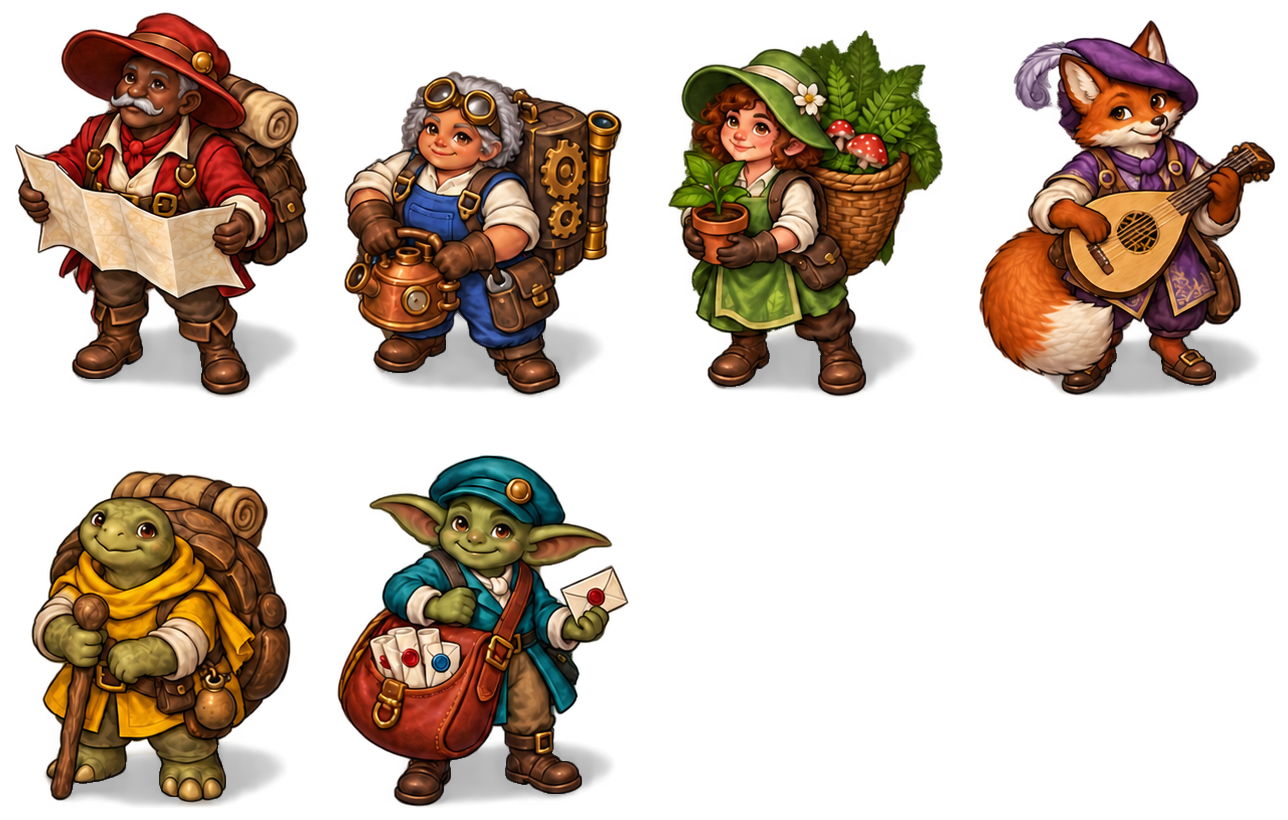
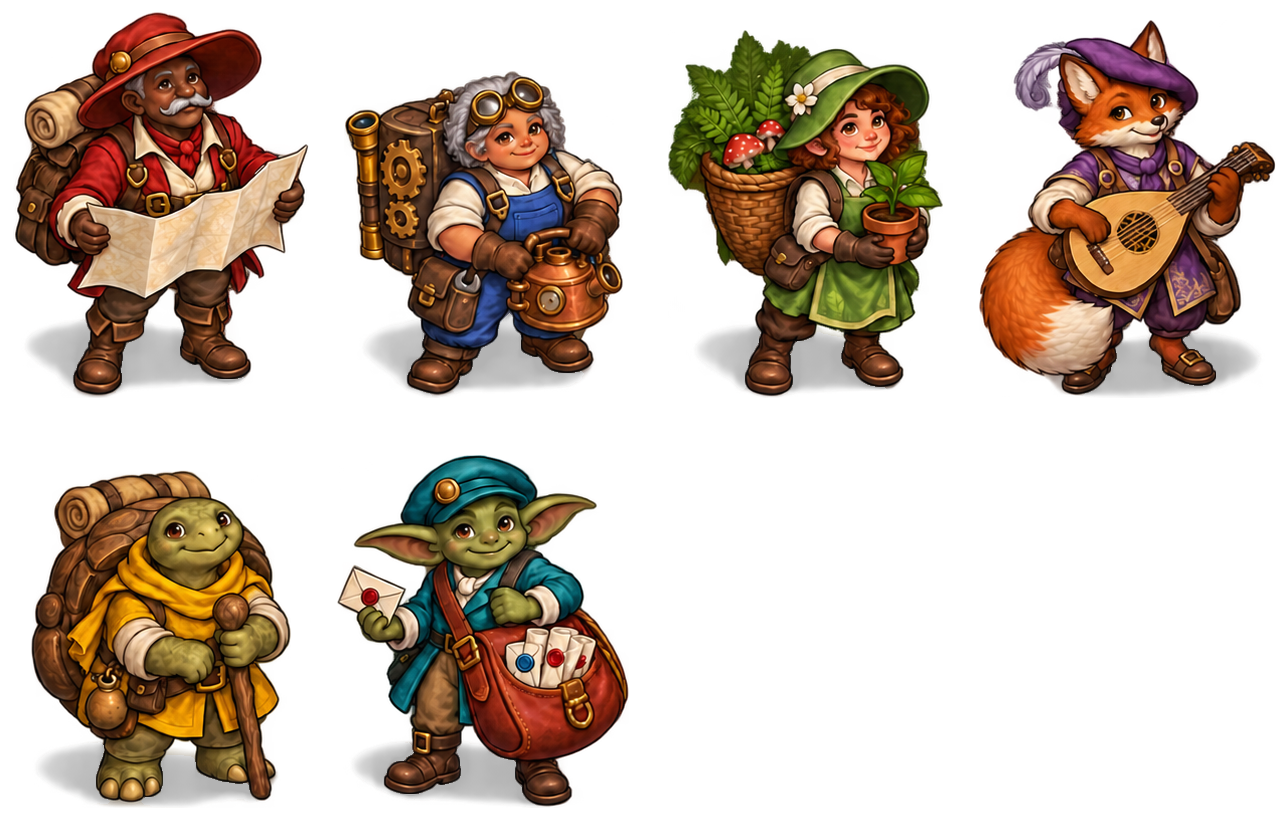
Flip five player figures so every figure faces right (Q313)
Andrei asked for the player figures to face right, so that facing tells
them from the guards, which all face left. The cartographer, mechanic,
botanist, tortoise and goblin were drawn facing left; the fox already
faced right and is unchanged.

The five are flipped whole, shadow included, wherever they are shown,
as he chose: pack_sheets.py's new MIRROR table flips them as the
figurine sheet is packed, pack_animation.py flips the same figures'
idle animation frames about the spot they stand on, the portrait boxes
are rederived with their hand-set face positions flipped, and the tab
icon is cut again from the flipped sheet. The originals are unchanged.

Claude-Session: https://claude.ai/code/session_011pRyBvJLN57DphmkpqtWPo

diff --git a/Art/tools/pack_sheets.py b/Art/tools/pack_sheets.py
@@ -27,7 +27,8 @@ It reads each original named in SHEETS below, and for every picture on it:
    (armour, stone) and no picture's own soft edge is touched. One picture
    defeats this: the amber slime's shadow is tinted by its own glow and ringed
    by it, so it keeps the shadow it was drawn with;
-3. stands it in a cell: its solid part (alpha at least SOLID_ALPHA, the same
+3. flips it left to right if MIRROR names it, shadow and all (Q313);
+4. stands it in a cell: its solid part (alpha at least SOLID_ALPHA, the same
    threshold the game measures sizes with) centred across the cell, its lowest
    visible pixel PAD above the cell's floor. The atlas `anchor` is the middle
    of that solid part's foot, which is where the game stands it.
@@ -70,6 +71,15 @@ SHEETS = {
         ("Mountains_GoldGuardedByFighting_2.png", 12),
     ],
     "Mountains_GoldGuardedByMagic": [("Mountains_GoldGuardedByMagic.png", 12)],
+}
+
+# Target sheet name -> the pictures on it, numbered as in its atlas from 1, that
+# are flipped left to right. [Q313] Every player figure faces right, so facing
+# tells them from the guards, which all face left: the five drawn facing left
+# are flipped, the fox already faces right. pack_animation.py flips the same
+# figures' animations.
+MIRROR = {
+    "player_avatars": {1, 2, 3, 5, 6},
 }
 
 COLUMNS = 4
@@ -370,6 +380,11 @@ def solid_box(width, px, box):
 
 # --- packing --------------------------------------------------------------------
 
+def flipped(row):
+    """A row of RGBA pixels, right to left."""
+    return b"".join(bytes(row[i:i + 4]) for i in range(len(row) - 4, -1, -4))
+
+
 def pack(name, sources):
     pieces = []
     for original, expected in sources:
@@ -397,10 +412,17 @@ def pack(name, sources):
     sheet_w, sheet_h = COLUMNS * cell_w, rows * cell_h
     out = bytearray(sheet_w * sheet_h * 4)
 
+    mirrored = MIRROR.get(name, set())
+    if not mirrored <= set(range(1, len(pieces) + 1)):
+        raise SystemExit("%s: MIRROR names pictures %r, but it has %d" % (name, sorted(mirrored), len(pieces)))
     sprites = []
     for index, (original, width, px, box, solid) in enumerate(pieces):
         x0, y0, x1, y1 = box
         sx0, _, sx1, sy1 = solid
+        mirror = index + 1 in mirrored
+        if mirror:
+            # The solid part is flipped with the picture.
+            sx0, sx1 = x0 + x1 - sx1, x0 + x1 - sx0
         cell_x, cell_y = (index % COLUMNS) * cell_w, (index // COLUMNS) * cell_h
         # Where the picture's top-left lands inside its cell.
         left = cell_w // 2 - (sx0 + sx1) // 2 + x0
@@ -408,8 +430,9 @@ def pack(name, sources):
         for y in range(y0, y1):
             src = (y * width + x0) * 4
             dst = ((cell_y + top + y - y0) * sheet_w + cell_x + left) * 4
-            out[dst:dst + (x1 - x0) * 4] = px[src:src + (x1 - x0) * 4]
-        sprites.append({
+            row = px[src:src + (x1 - x0) * 4]
+            out[dst:dst + (x1 - x0) * 4] = flipped(row) if mirror else row
+        sprite = {
             "id": "%s_%02d" % (name, index + 1),
             "x": cell_x,
             "y": cell_y,
@@ -418,7 +441,10 @@ def pack(name, sources):
             "anchor": {"x": cell_w // 2, "y": top + (sy1 - y0)},
             "original": original,
             "source_box_in_original": [x0, y0, x1 - x0, y1 - y0],
-        })
+        }
+        if mirror:
+            sprite["mirrored"] = True
+        sprites.append(sprite)
 
     write_png(os.path.join(ART, "%s_sheet.png" % name), sheet_w, sheet_h, out)
     atlas = {
@@ -426,7 +452,8 @@ def pack(name, sources):
         "cell_width": cell_w,
         "cell_height": cell_h,
         "notes": ("Packed by Art/tools/pack_sheets.py from Art/originals/, the artist's sheets as "
-                  "supplied, with each picture's grey drop shadow made black and see-through. "
+                  "supplied, with each picture's grey drop shadow made black and see-through"
+                  + (", and those marked mirrored flipped left to right" if mirrored else "") + ". "
                   "Do not edit by hand: replace the original and run the tool again."),
         "sprites": sprites,
     }

diff --git a/Art/tools/pack_animation.py b/Art/tools/pack_animation.py
@@ -16,7 +16,9 @@ Each frame keeps its place in its cell exactly as drawn, so the figure does not
 shift from frame to frame, and its atlas anchor is PIVOT. Its shadow is made
 dark and see-through as pack_sheets.py makes every other sheet's (Q59; Q305),
 each figure's shadow on its own since each strip draws its shadow a
-different grey. A frame's sprite is named for the figure it animates:
+different grey. The figures pack_sheets.py's MIRROR flips on the figurine
+sheet are flipped here too, every frame about PIVOT, shadow and all (Q313).
+A frame's sprite is named for the figure it animates:
 `player_avatars_01_frame1` is the first frame of the figurine sheet's
 `player_avatars_01`. The strips stay in Art/originals/ unchanged, and the same
 inputs always give byte-identical output.
@@ -29,7 +31,7 @@ import sys
 HERE = os.path.dirname(os.path.abspath(__file__))
 sys.path.insert(0, HERE)
 
-from pack_sheets import ART, ORIGINALS, VISIBLE, darken_shadows, read_png, write_png  # noqa: E402
+from pack_sheets import ART, MIRROR, ORIGINALS, VISIBLE, darken_shadows, flipped, read_png, write_png  # noqa: E402
 
 NAME = "player_avatars_animated"
 SOURCE = os.path.join(ORIGINALS, NAME)
@@ -49,6 +51,8 @@ FRAME_WIDTH = 256
 FRAME_HEIGHT = 320
 # Where the figure stands in every frame, as the animations were drawn.
 PIVOT = (128, 288)
+# [Q313] The figurines flipped on their own sheet, whose animations are flipped too.
+MIRRORED = {"player_avatars_%02d" % n for n in MIRROR.get("player_avatars", ())}
 
 
 def visible_box(width, px, x0, x1, height):
@@ -75,10 +79,19 @@ def main():
         boxes = [visible_box(width, px, k * FRAME_WIDTH, (k + 1) * FRAME_WIDTH, height) for k in range(FRAMES)]
         shaded = darken_shadows(width, px, boxes)
         print("  %s: %d frames, %d shadow pixels darkened" % (strip, FRAMES, shaded))
+        mirror = figurine in MIRRORED
+        if mirror:
+            # Each frame is twice PIVOT wide, so flipping it keeps the figure on PIVOT.
+            if FRAME_WIDTH != 2 * PIVOT[0]:
+                raise SystemExit("a frame %d wide cannot be flipped about x = %d" % (FRAME_WIDTH, PIVOT[0]))
+            for y in range(height):
+                for k in range(FRAMES):
+                    start = (y * width + k * FRAME_WIDTH) * 4
+                    px[start:start + FRAME_WIDTH * 4] = flipped(px[start:start + FRAME_WIDTH * 4])
         stride = width * 4
         out[row * FRAME_HEIGHT * stride:(row + 1) * FRAME_HEIGHT * stride] = px
         for k in range(FRAMES):
-            sprites.append({
+            sprite = {
                 "id": "%s_frame%d" % (figurine, k + 1),
                 "x": k * FRAME_WIDTH,
                 "y": row * FRAME_HEIGHT,
@@ -86,7 +99,10 @@ def main():
                 "height": FRAME_HEIGHT,
                 "anchor": {"x": PIVOT[0], "y": PIVOT[1]},
                 "original": "%s/%s" % (NAME, strip),
-            })
+            }
+            if mirror:
+                sprite["mirrored"] = True
+            sprites.append(sprite)
 
     write_png(os.path.join(ART, "%s_sheet.png" % NAME), sheet_w, sheet_h, out)
     atlas = {
@@ -95,7 +111,8 @@ def main():
         "cell_height": FRAME_HEIGHT,
         "notes": ("Packed by Art/tools/pack_animation.py from Art/originals/%s/, one row per figure, "
                   "each frame where it was drawn, with each figure's grey shadow made black and "
-                  "see-through. Do not edit by hand: replace a strip and run the tool again." % NAME),
+                  "see-through%s. Do not edit by hand: replace a strip and run the tool again."
+                  % (NAME, ", and the frames marked mirrored flipped left to right" if MIRRORED else "")),
         "sprites": sprites,
     }
     with open(os.path.join(ART, "%s_atlas.json" % NAME), "w") as fh:

diff --git a/Art/tools/make_portrait_crops.py b/Art/tools/make_portrait_crops.py
@@ -43,12 +43,13 @@ SIDE_FRACTION = 0.5
 HEADROOM = 0.06
 # Where the face is, cell-relative, for figures whose measured head centre
 # misses it: a backpack or basket beside the head widens what is measured, and
-# the face sits left of centre. Set by eye, between the eyes, for the figures
-# Andrei named (Q60, 107); check them again if the figures change.
+# the face sits right of centre. Set by eye, between the eyes, for the figures
+# Andrei named (Q60, 107), and flipped with the figures (Q313); check them again
+# if the figures change.
 FACE_X = {
-    "player_avatars_02": 124,
-    "player_avatars_03": 103,
-    "player_avatars_05": 123,
+    "player_avatars_02": 198,
+    "player_avatars_03": 219,
+    "player_avatars_05": 198,
 }
 ALPHA_FLOOR = 8
 

diff --git a/docs/OPEN_QUESTIONS.md b/docs/OPEN_QUESTIONS.md
@@ -3843,7 +3843,8 @@ also a solo and a multiplayer game"*.
 Built: the title and the icon's `<link>` in `apps/web/index.html`; the icon,
 `apps/web/icon.png`, the figurine sheet's 290 px square at (16, 8) scaled to
 64 px; and the tab's title in `apps/web/src/online/Site.tsx`. No rule, number
-or map changed.
+or map changed. Since [Q313](#q313) the cartographer faces right, and the icon,
+cut again from the same square, with him.
 
 ### Q307. ~~Should the other seats along the computer's tree edges choose their sites as its imagined players do?~~ — **answered 2026-10-13: yes; they rank by their own speeds, skip guards they cannot win and favour gold as the game goes on, as in the games it plays out; against the computer before, 69 wins to 51 (1-2)**
 
@@ -3969,6 +3970,44 @@ Built: `RulesButton` in the login page's top bar in
 `apps/web/src/online/LoginScreen.tsx`, pushed to the bar's right end by
 `.bar.login .btn` in `apps/web/src/online/site.css`. No rule, number, map or
 picture changed, and the rulebook needs no change.
+
+### Q313. ~~Which way do the player figures face?~~ — **answered 2026-10-26: right, all six; the five drawn facing left are flipped whole, shadow included, wherever they are shown: on the map with their idle animations, on the New game panel, in the portraits and as the tab's icon (1-2)**
+
+Andrei, 2026-10-26 at 06:31: *"all guards are facing left. out of character
+figures, the fox faces right, and the rest look left. let us flip them so that
+it becoms another feature to tell player figures from guards"*. The
+cartographer, mechanic, botanist, tortoise and goblin were drawn facing left,
+the fox facing right. The same pictures are the figures on the map, whose idle
+animations come from strips of their own ([Q305](#q305)), the figures to pick
+on the New game panel, the head-and-shoulders portraits on the player cards and
+in the turn log ([Q26](#q26)), and the browser tab's icon, the cartographer
+([Q306](#q306)). Figures do not turn as they walk, so they face right all the
+time.
+
+1. **Where.** Everywhere these pictures show, or on the map only, with the
+   New game panel, the portraits and the icon left as they were. Mocked up
+   with the art swapped in; everywhere recommended. **Answered** at 07:31:
+   everywhere.
+2. **The shadows.** Each figure's shadow falls to its right, as every
+   guard's, tree's and building's does. A: the whole picture flipped, so its
+   shadow falls left; B: only the figure flipped, its shadow left falling right
+   and filled in where the figure had hidden it (recommended). Both mocked up,
+   on the six figures and in the game. **Answered** at 07:31: A.
+
+The idle animations flip with their figures, or a figure would turn back to
+the left each time it played; set out alongside 1 and 2.
+
+Built: `MIRROR` in `Art/tools/pack_sheets.py` names the pictures flipped as the
+figurine sheet is packed, each after its shadow is made dark and before it is
+stood in its cell, centred as before; `Art/tools/pack_animation.py` flips the
+same figures' frames about the spot they stand on. Both mark the flipped
+sprites `"mirrored": true` in their atlases, which the game ignores. The
+portrait boxes were rederived by `Art/tools/make_portrait_crops.py` with its
+hand-set face positions flipped, framing each head as before, mirrored, to
+within 2 px; and `apps/web/icon.png` was cut again from the flipped sheet, the
+same square scaled the same way. The originals in `Art/originals/` are as
+supplied. The fox and every guard are as they were, and no rule, number or map
+changed.
 
 ---
 

diff --git a/Art/README.md b/Art/README.md
@@ -38,8 +38,13 @@ movement.
    see-through (Q59). A new version of one goes in by replacing its original
    and running the tool again; a new one by adding a line to the tool's
    `SHEETS` table, saying which original it comes from and how many pictures
-   are on it. Pictures are numbered row by row, left to right, as drawn. Then
-   carry on from step 1 or 2.
+   are on it. Pictures are numbered row by row, left to right, as drawn. The
+   tool's `MIRROR` table names pictures it flips left to right, shadow and
+   all: the five player figures drawn facing left, so that every player
+   figure faces right and the guards, which face left, are told from them by
+   that too (Q313). A new version of the figure sheet needs its `MIRROR` line
+   checked against which way each new figure faces. Then carry on from step 1
+   or 2.
 1. **Same name.** Drop the new `<Name>_sheet.png` and `<Name>_atlas.json` over
    the old ones. Nothing else changes. The sprites can be any size and any
    count: every sheet is scaled on load so its typical sprite (the median of
@@ -192,7 +197,9 @@ Andrei's animations arrive as one strip per figure, kept as supplied in
 frame. `python3 Art/tools/pack_animation.py` lays the strips one under
 another into `player_avatars_animated_sheet.png`, each frame where it was
 drawn so the figure does not shift between frames, makes their shadows dark
-and see-through as `pack_sheets.py` does (Q305), and writes the atlas. A
+and see-through as `pack_sheets.py` does (Q305), flips the strips of the
+figures `pack_sheets.py`'s `MIRROR` flips, every frame about the spot the
+figure stands on (Q313), and writes the atlas. A
 new version of a strip goes in by replacing it and running the tool again. A
 strip with a different number of frames needs the tool's `FRAMES` and the
 manifest's `durations_ms` changed with it; `pnpm test` reports any figurine
